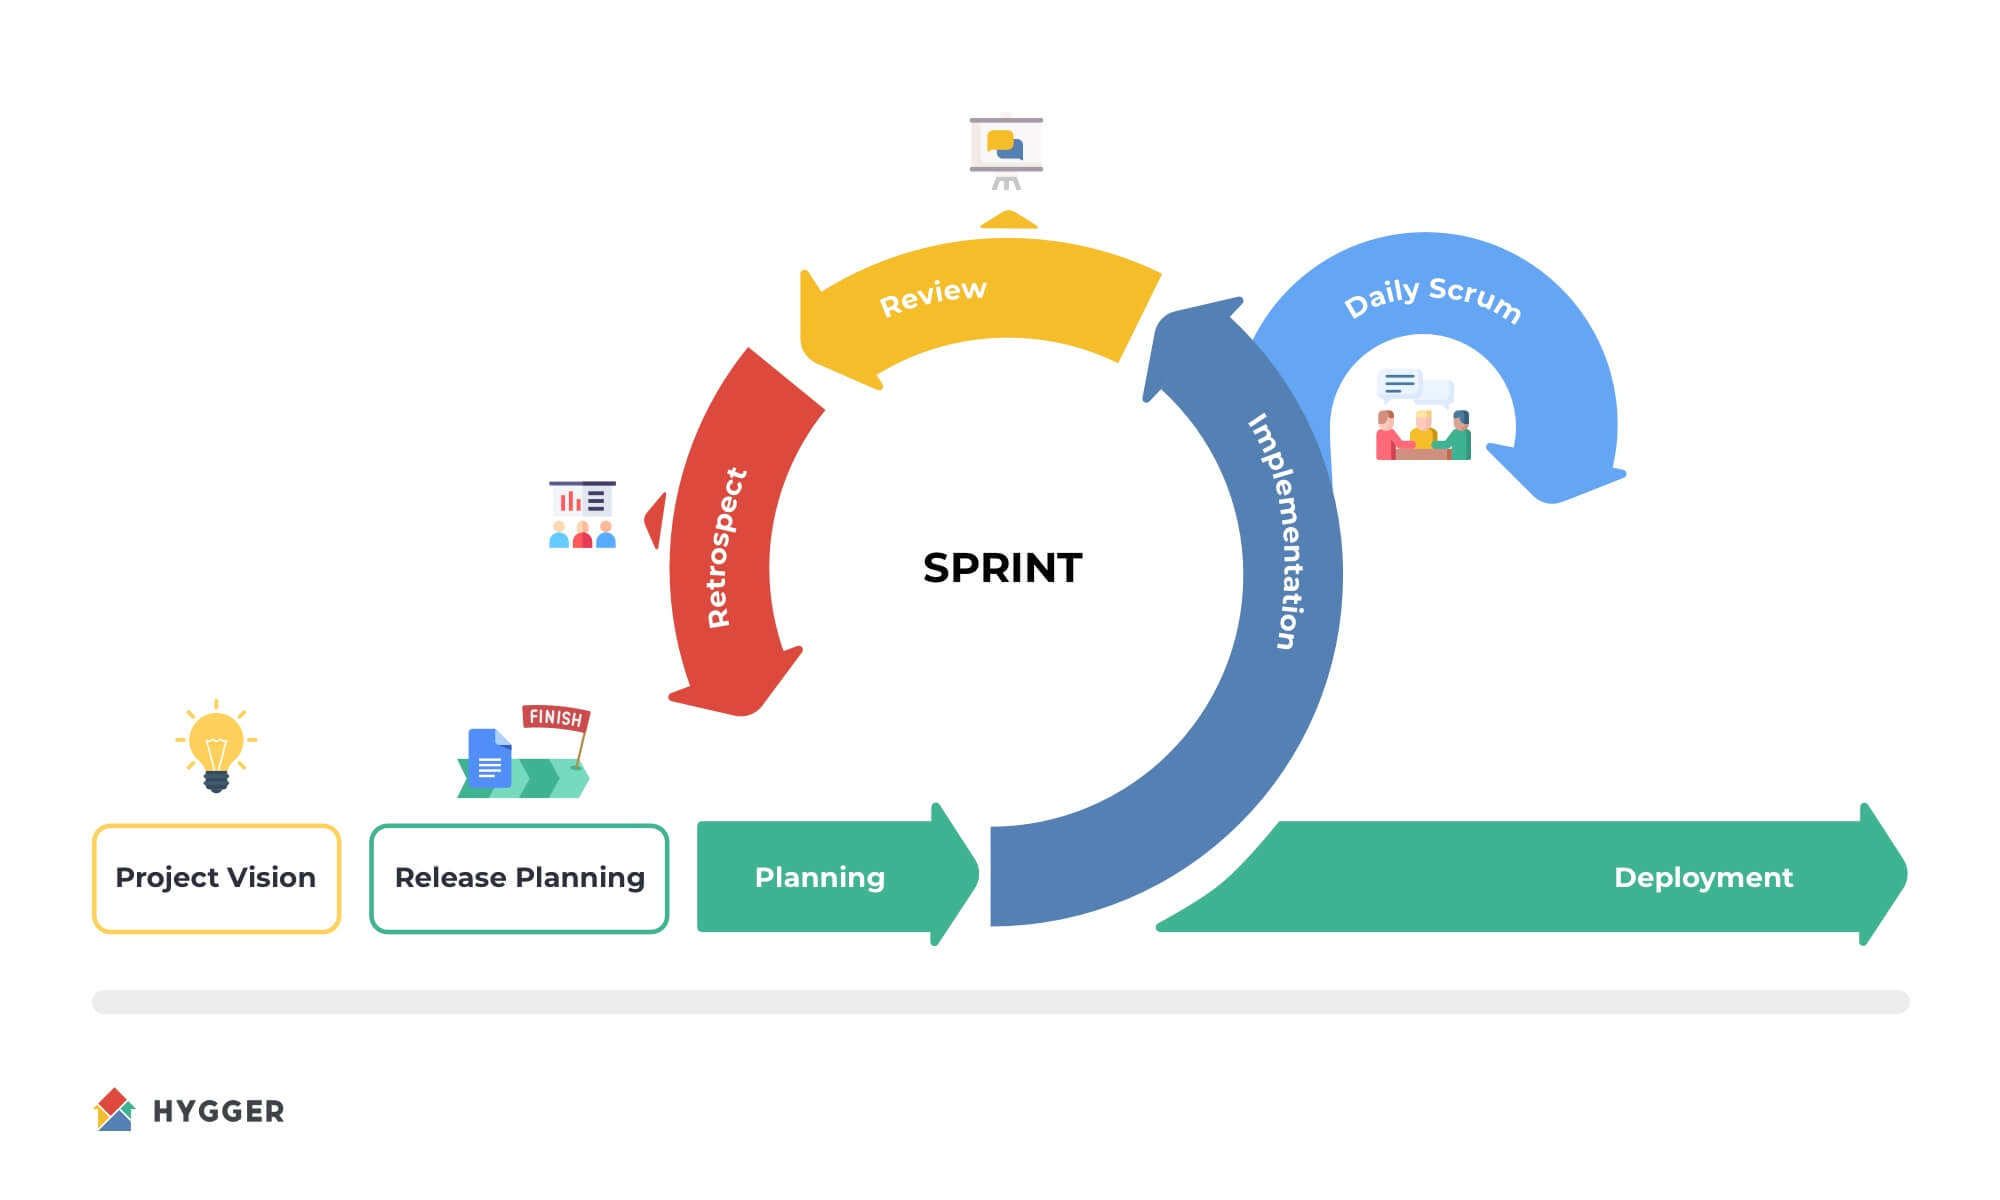
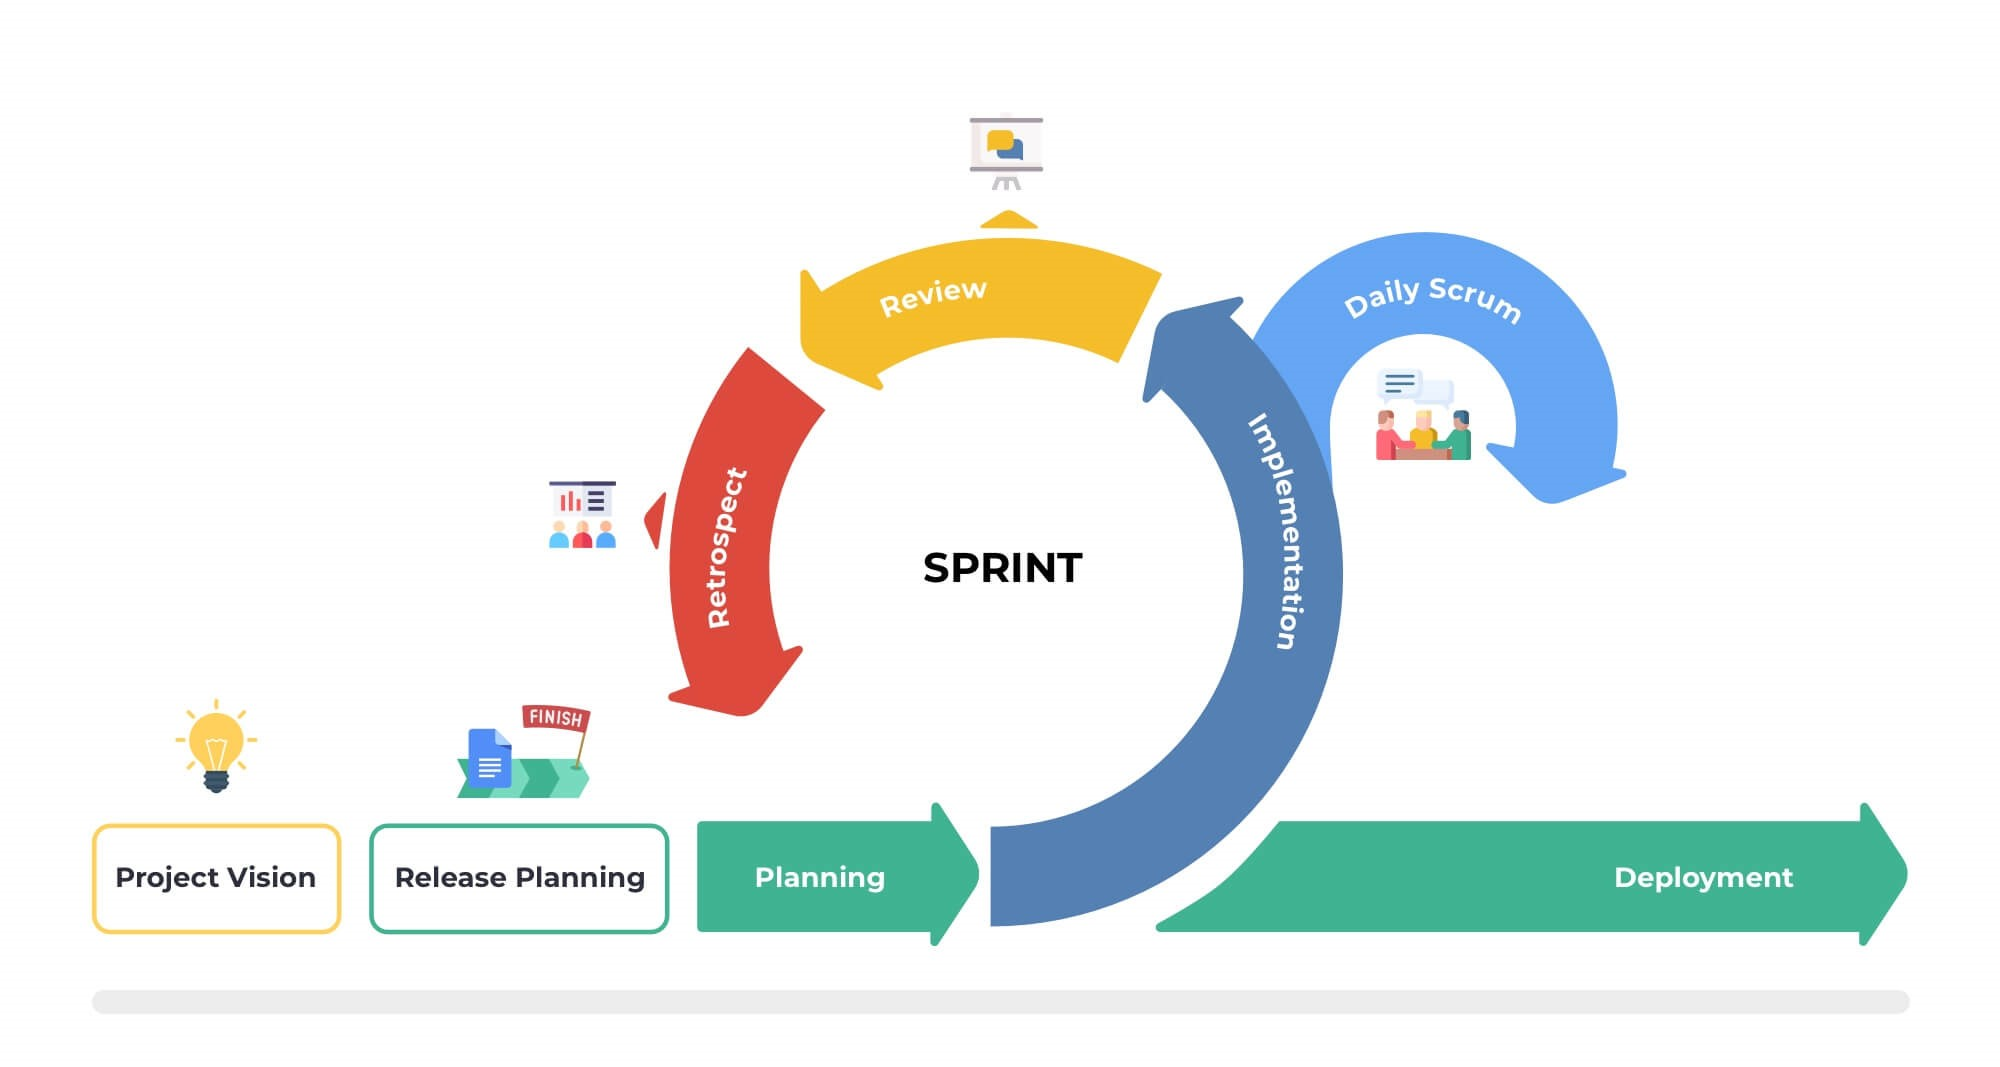
feat création de la section du fonctionnement de scrum
création de la section du fonctionnement de scrum

Changed region(s): [[0.031, 0.0928, 0.961, 0.9588], [0.465, 0.4639, 0.558, 0.5567]]

diff --git a/Scrum-siteWEB/accueil.html b/Scrum-siteWEB/accueil.html
@@ -33,6 +33,12 @@
                 <p>Bienvenue sur "Scrumzy", un site dédié à la méthodologie Scrum, développé par Ervan Lemqadem dans le cadre du cours démoMot à l'ETML. Découvrez comment Scrum, un cadre de travail agile, permet aux équipes de collaborer efficacement sur des projets complexes. Explorez les rôles, les cérémonies, les artefacts, les valeurs fondamentales de Scrum. Vous trouverez également une page FAQ pour répondre à vos diverses questions ainsi qu'une page sur l'auteur de ce site</p>
             </div>
         </section>
+
+        <section class="fonctionnement">
+            <h2>Comment fonctionne Scrum?</h2>
+            <p>Scrum est basé sur des itérations courtes appelées "sprints", qui durent généralement de deux à quatre semaines. Chaque sprint commence par une planification où l'équipe décide des tâches à accomplir. Pendant le sprint, l'équipe travaille sur ces tâches, et à la fin du sprint, un incrément de produit potentiellement livrable est produit.</p>
+            <img src="media/images/scrum-cycle.jpg" alt="répresentation du cycle Scrum">
+        </section>
     </main>
     <footer></footer>
 </body>
